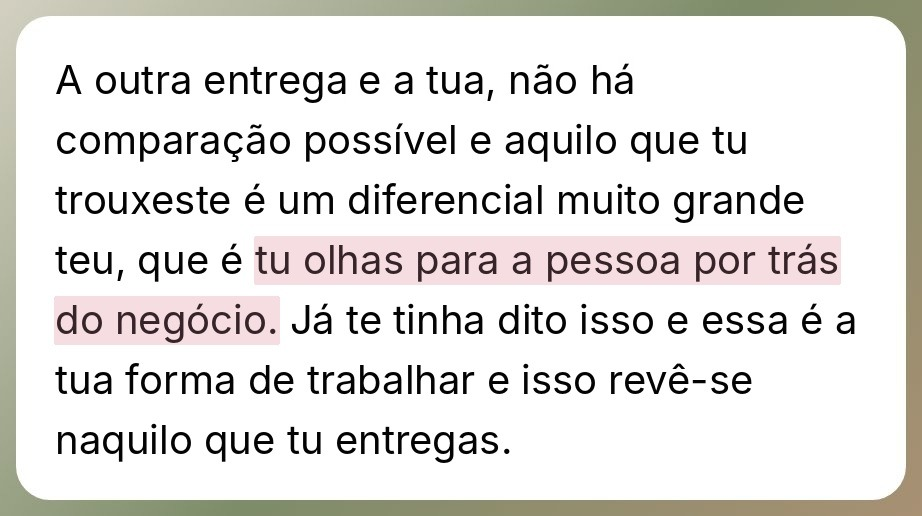
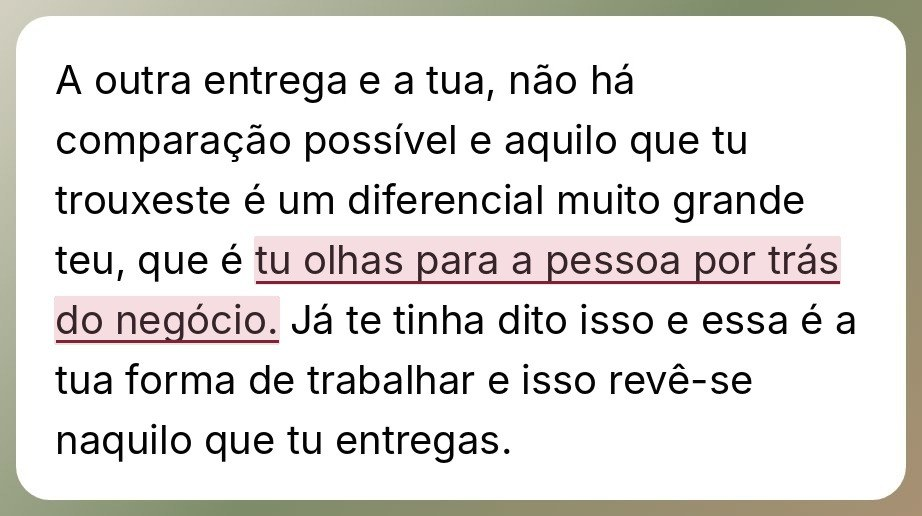
CEEN completa: sublinhado E nas mensagens (marcador rosa + traço bordô fino)

Changed region(s): [[0.2733, 0.5271, 0.9111, 0.5581], [0.0607, 0.6512, 0.3037, 0.6822]]

diff --git a/ceen-completa.html b/ceen-completa.html
@@ -1187,7 +1187,7 @@ html[data-theme=dark] body #popup.popup .popup-btn{background:#9c3b4f!important;
       <p class="q1" style="white-space:normal;"><strong>"Logo de seguida tinha recebido o contacto pelo meu website"</strong></p>
       <p class="attrib">— uma outra cliente depois de estruturarmos juntas o seu serviço</p>
     </blockquote>
-    <div class="testimonial-photos-ph one"><div class="ph"><img src="feedback-cliente-pacote.jpg?v=5" width="922" height="920" alt="Mensagem de uma cliente: depois de estruturarmos o pacote de atendimento para crianças e jovens, recebeu logo um pedido pelo website, o preço foi aceite e a sessão já está marcada."></div></div>
+    <div class="testimonial-photos-ph one"><div class="ph"><img src="feedback-cliente-pacote.jpg?v=6" width="922" height="920" alt="Mensagem de uma cliente: depois de estruturarmos o pacote de atendimento para crianças e jovens, recebeu logo um pedido pelo website, o preço foi aceite e a sessão já está marcada."></div></div>
   
     </div>
   </div>
@@ -1241,7 +1241,7 @@ html[data-theme=dark] body #popup.popup .popup-btn{background:#9c3b4f!important;
     <blockquote class="quote-block">
       <p class="q1" style="white-space:normal; margin-top:0;"><strong>"Tu olhas para a pessoa por trás do negócio"</strong></p>
     </blockquote>
-    <div class="testimonial-photos-ph one"><div class="ph"><img src="feedback-cliente-olhar.jpg?v=5" width="922" height="516" alt="Mensagem de uma cliente: a outra entrega, não há comparação possível; o diferencial é que olho para a pessoa por trás do negócio, e essa é a minha forma de trabalhar."></div></div>
+    <div class="testimonial-photos-ph one"><div class="ph"><img src="feedback-cliente-olhar.jpg?v=6" width="922" height="516" alt="Mensagem de uma cliente: a outra entrega, não há comparação possível; o diferencial é que olho para a pessoa por trás do negócio, e essa é a minha forma de trabalhar."></div></div>
   
     </div>
 

diff --git a/ceen-en.html b/ceen-en.html
@@ -1187,7 +1187,7 @@ html[data-theme=dark] body #popup.popup .popup-btn{background:#9c3b4f!important;
       <p class="q1" style="white-space:normal;"><strong>"Right after, I had received a message through my website"</strong></p>
       <p class="attrib">— another client, after we structured her service together</p>
     </blockquote>
-    <div class="testimonial-photos-ph one"><div class="ph"><img src="feedback-cliente-pacote.jpg?v=5" width="922" height="920" alt="Message from a client: after we structured the service package for children and young people, she received new inquiries"></div></div>
+    <div class="testimonial-photos-ph one"><div class="ph"><img src="feedback-cliente-pacote.jpg?v=6" width="922" height="920" alt="Message from a client: after we structured the service package for children and young people, she received new inquiries"></div></div>
   
     </div>
   </div>
@@ -1241,7 +1241,7 @@ html[data-theme=dark] body #popup.popup .popup-btn{background:#9c3b4f!important;
     <blockquote class="quote-block">
       <p class="q1" style="white-space:normal; margin-top:0;"><strong>"You look at the person behind the business"</strong></p>
     </blockquote>
-    <div class="testimonial-photos-ph one"><div class="ph"><img src="feedback-cliente-olhar.jpg?v=5" width="922" height="516" alt="Message from a client: compared with the other service there is no comparison; the difference is that I look at the person behind the business"></div></div>
+    <div class="testimonial-photos-ph one"><div class="ph"><img src="feedback-cliente-olhar.jpg?v=6" width="922" height="516" alt="Message from a client: compared with the other service there is no comparison; the difference is that I look at the person behind the business"></div></div>
   
     </div>
 
